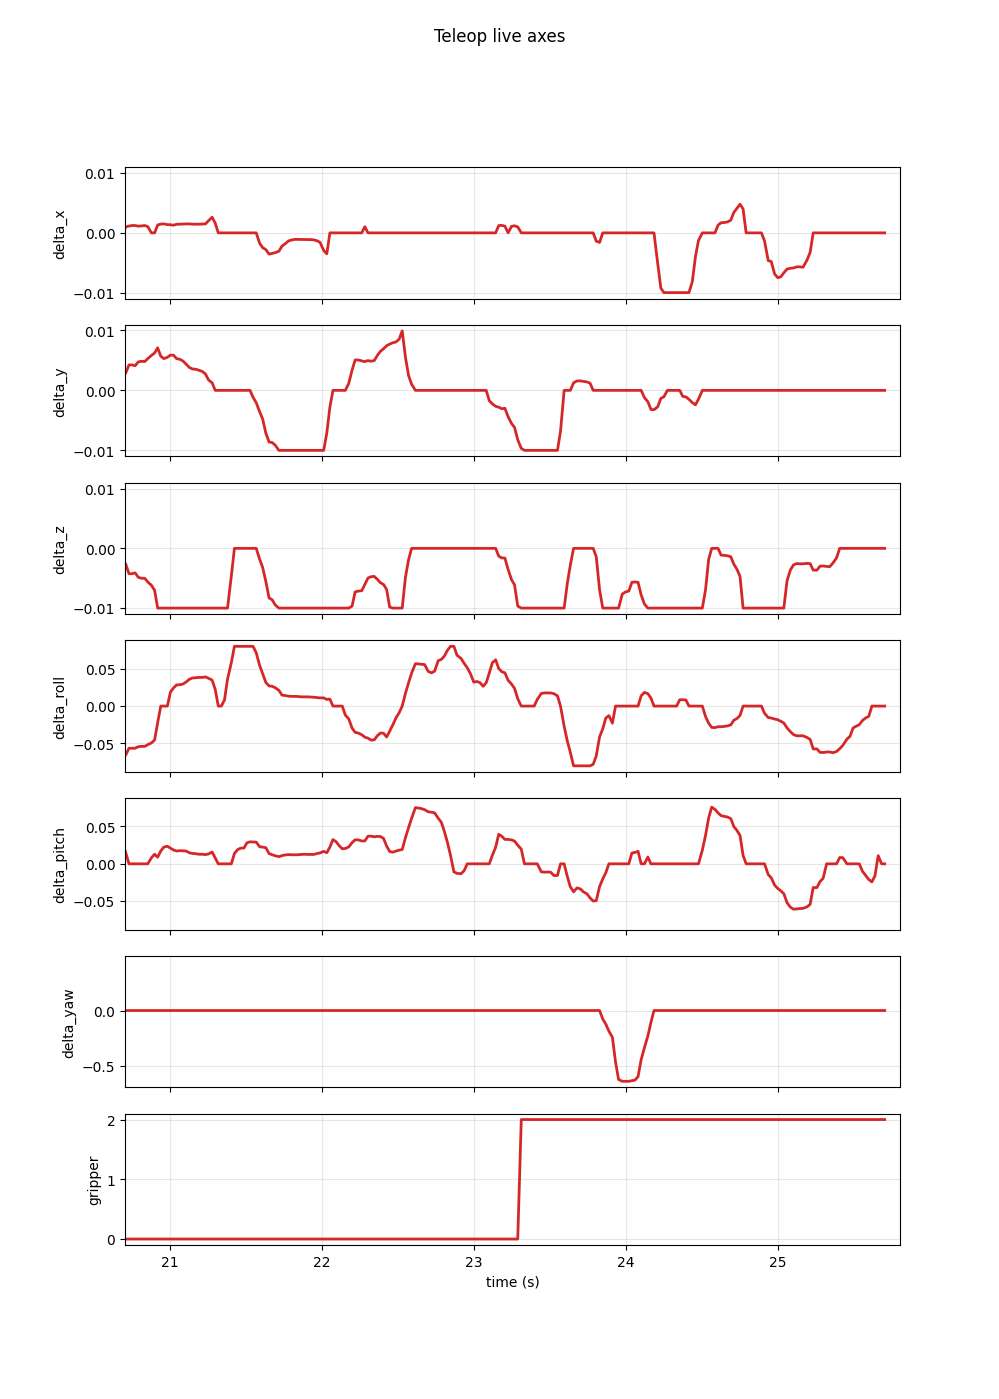
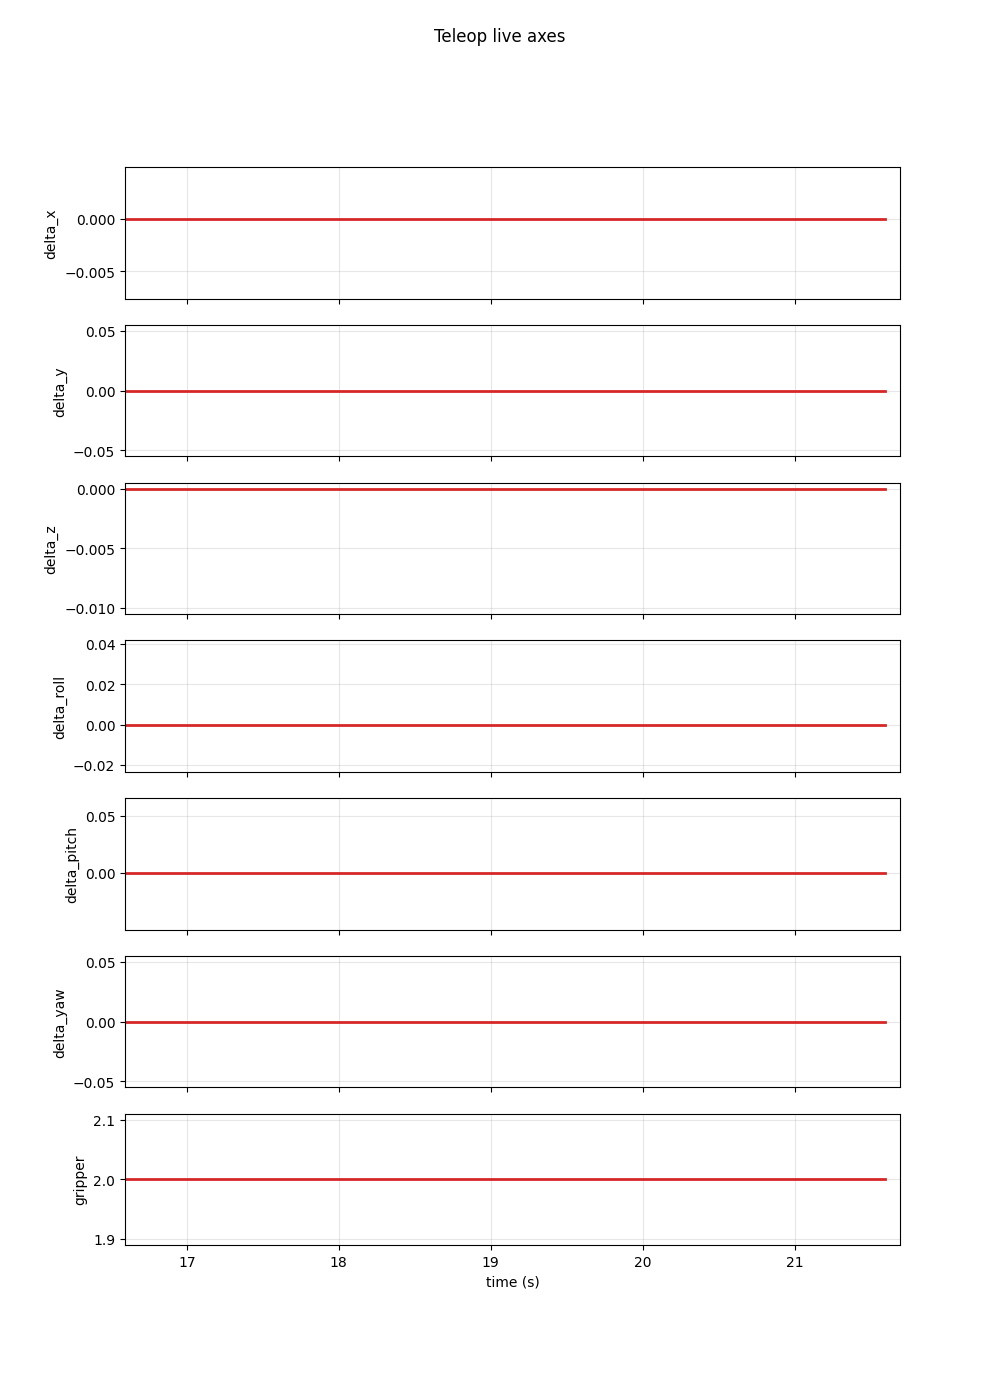
real robotic debug for spacemouse controlling

diff --git a/src/lerobot/robots/agilex_cobot/agilex_cobot.py b/src/lerobot/robots/agilex_cobot/agilex_cobot.py
@@ -15,6 +15,12 @@ import time
 logger = logging.getLogger(__name__)
 
 
+# import RobotKinematics here to avoid circular import
+from lerobot.model.kinematics import RobotKinematics
+from lerobot.utils.rotation import Rotation
+import transforms3d as t3d
+
+
 class AgilexCobotBase(Robot):
     """Base class for AgilexCobot robot with common functionality."""
     
@@ -46,6 +52,14 @@ class AgilexCobotBase(Robot):
         
         # Initialize cameras
         self.cameras = make_cameras_from_configs(config.cameras)
+        
+        
+        self.kinematics = RobotKinematics(
+            urdf_path=self.config.urdf_path, 
+            target_frame_name=self.config.ik_target_frame_name, 
+            joint_names=self.config.ik_joint_names,
+            use_rad=True,
+        )
         
         logger.info(f"AgilexCobot robot initialized with {len(self.all_joints)} joints")
     
@@ -269,45 +283,40 @@ class AgilexCobot(AgilexCobotBase):
         delta_yaw = ee_command.get("delta_yaw", 0.0)
         gripper = ee_command.get("gripper", 1.0) # default to stay
         
-        # import RobotKinematics here to avoid circular import
-        from lerobot.model.kinematics import RobotKinematics
-        from lerobot.utils.rotation import Rotation
-        import transforms3d as t3d
-        kinematics = RobotKinematics(
-            urdf_path=self.config.urdf_path, 
-            target_frame_name=self.config.ik_target_frame_name, 
-            joint_names=self.config.ik_joint_names,
-            use_rad=True,
-        )
+    
         # get current joint positions,noly consider left arm for now 
         # todo: add right arm as well
         q_raw = self.ros_manager._get_current_arm_position('left')
         q = np.array(q_raw[:-1], dtype=np.float32) # exclude gripper joint
         
         # compute current end-effector pose
-        current_ee_pose = kinematics.forward_kinematics(q)
+        print(f"q_raw:{q_raw}")
+        current_ee_pose = self.kinematics.forward_kinematics(q)
         
         # compute desired end-effector pose
         ref = current_ee_pose.copy()
         delta_p = np.array([delta_x, delta_y, delta_z], dtype=np.float32)
-        # r_abs = Rotation.from_rotvec([wx, wy, wz]).as_matrix()
+        # r_abs = Rotation.from_rotvec([delta_roll, delta_pitch, delta_yaw]).as_matrix()
         r_abs = t3d.euler.euler2mat(delta_roll, delta_pitch, delta_yaw)
         desired = np.eye(4, dtype=float)
         desired[:3, :3] = ref[:3, :3] @ r_abs
         desired[:3, 3] = ref[:3, 3] + delta_p
-        
+         
         # compute IK to get desired joint positions
-        q_target = kinematics.inverse_kinematics(q, desired)
+        q_target = np.zeros(7)
+        q_target[:-1] = self.kinematics.inverse_kinematics(q, desired)
         
         # add gripper command to q_target if applicable
         if gripper == 0.0: # close
-            q_target.append(0.0)
+            q_target[-1] = 0.0
         elif gripper == 1.0: # stay
-            q_target.append(q_raw[-1])
+            q_target[-1] = q_raw[-1]
         elif gripper == 2.0: # open
-            q_target.append(0.07) # stay at current position, 0.09 is the open position for the gripper
+            q_target[-1] = 0.08
         else:
-            q_target.append(q_raw[-1])
+            q_target[-1] = q_raw[-1]
+        
+        print(f"q_target: {q_target}")
             
         # Publish commands via ROS manager
         if self.config.ros_config.with_l_arm:
@@ -317,11 +326,9 @@ class AgilexCobot(AgilexCobotBase):
         
         action = {}
         for i, name in enumerate(self.motors_features.keys()):
-            if name != "left_joint6.pos": # gripper joint
-                action[name] = float(q_target[i])
-            else:
-                action["left_joint6.pos"] = float(gripper)
-     
+            action[name] = float(q_target[i])
+       
+        print(f"action: {action}")
         return action
      
     

diff --git a/src/lerobot/scripts/lerobot_record.py b/src/lerobot/scripts/lerobot_record.py
@@ -140,6 +140,7 @@ from lerobot.teleoperators import (  # noqa: F401
     reachy2_teleoperator,
     so_leader,
     unitree_g1,
+    spacemouse,
 )
 from lerobot.teleoperators.keyboard.teleop_keyboard import KeyboardTeleop
 from lerobot.utils.constants import ACTION, OBS_STR
@@ -478,16 +479,17 @@ def record_loop(
         # so action actually sent is saved in the dataset. action = postprocessor.process(action)
         # TODO(steven, pepijn, adil): we should use a pipeline step to clip the action, so the sent action is the action that we input to the robot.
         _sent_action = robot.send_action(robot_action_to_send)
+        print(f"_sent_action:{_sent_action}")
 
         # Write to dataset (only on real policy frames, not interpolated-only iterations)
         if dataset is not None and is_record_frame:
-            action_frame = build_dataset_frame(dataset.features, action_values, prefix=ACTION)
+            action_frame = build_dataset_frame(dataset.features, _sent_action, prefix=ACTION)
             frame = {**observation_frame, **action_frame, "task": single_task}
             dataset.add_frame(frame)
 
         if display_data:
             log_rerun_data(
-                observation=obs_processed, action=action_values, compress_images=display_compressed_images
+                observation=obs_processed, action=_sent_action, compress_images=display_compressed_images
             )
 
         dt_s = time.perf_counter() - start_loop_t

diff --git a/src/lerobot/model/kinematics.py b/src/lerobot/model/kinematics.py
@@ -52,7 +52,7 @@ class RobotKinematics:
         self.with_gripper_joint_names = list(self.robot.joint_names()) if joint_names is None else joint_names
         # deafult setting: last joint is gripper
         self.joint_names = self.with_gripper_joint_names[:-1]
-        # print(f"[RobotKinematics.joint_names] : {joint_names}")
+        print(f"[RobotKinematics.joint_names] : {self.joint_names}")
 
         # Initialize frame task for IK
         self.tip_frame = self.solver.add_frame_task(self.target_frame_name, np.eye(4))
@@ -76,7 +76,8 @@ class RobotKinematics:
 
         # Update joint positions in placo robot
         for i, joint_name in enumerate(self.joint_names):
-            self.robot.set_joint(joint_name, joint_pos_rad[i])
+            # Ensure we pass a native Python float to the C++ binding
+            self.robot.set_joint(joint_name, float(joint_pos_rad[i]))
 
         # Update kinematics
         self.robot.update_kinematics()
@@ -112,7 +113,8 @@ class RobotKinematics:
 
         # Set current joint positions as initial guess
         for i, joint_name in enumerate(self.joint_names):
-            self.robot.set_joint(joint_name, current_joint_rad[i])
+            # Ensure we pass a native Python float to the C++ binding
+            self.robot.set_joint(joint_name, float(current_joint_rad[i]))
 
         # Update the target pose for the frame task
         self.tip_frame.T_world_frame = desired_ee_pose

diff --git a/src/lerobot/policies/factory.py b/src/lerobot/policies/factory.py
@@ -514,6 +514,9 @@ def make_policy(
     # Store action feature names for relative_exclude_joints support
     if ds_meta is not None and hasattr(cfg, "action_feature_names"):
         action_names = ds_meta.features.get(ACTION, {}).get("names")
+        if action_names and isinstance(action_names[0], list):
+            print(f"[make_policy]: action_names[0] is list, use action_names=action_names[0]")
+            action_names = action_names[0]
         if action_names is not None:
             cfg.action_feature_names = list(action_names)
 

diff --git a/src/lerobot/teleoperators/spacemouse/teleop_spacemouse.py b/src/lerobot/teleoperators/spacemouse/teleop_spacemouse.py
@@ -196,7 +196,7 @@ class SpacemouseTeleop(Teleoperator):
             home_btn = state.buttons[0]
             if home_btn:
                 action_dict["home"] = True
-        # print(f"Gamepad Action: {action_dict}")
+      
         return action_dict
 
     def disconnect(self) -> None:
